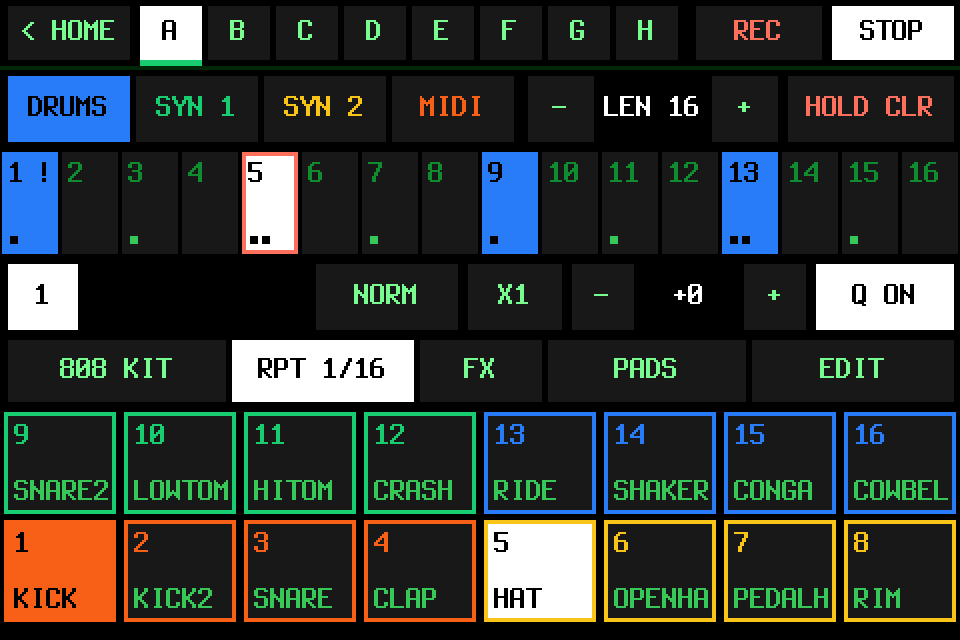
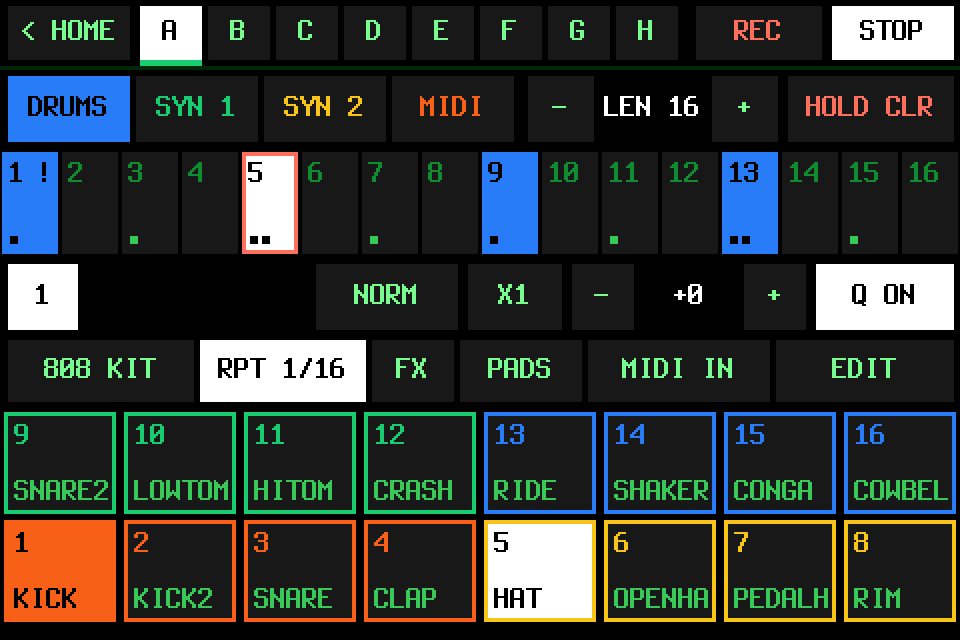
XO-4: MIDI IN on / off; the Ethernet link setting as a number
XO-4's DRUMS row gets MIDI IN, off at first: the MIDI routes' notes (a synth's,
the Pocket's) no longer play XO-4's pads unless it's on (the SMP column).
Clock and start/stop still pass. Kept in the settings (xo4_midi_in) and sent
to the MIDI process. Asked for by the user, through the Pocket session.

The Ethernet drop-in: NetworkManager reads its connection defaults as
numbers, so ipv4.link-local=3 (enabled), not the word (the Pocket session's
catch).

Credits: XOXO Audio Labs. License: GPL-3.0.
Tested: on the PC, the test suite (test_midi.py with a new MIDI IN test,
test_desk.py through pytest); the DRUMS screenshot redrawn with the button; on
the Studio, the app starts and runs with it.
Not tested: MIDI IN by hand on the Studio's screen; a synth's notes kept off
the pads on hardware; the link-local address on a real cable.

diff --git a/fm1-bt-bridge/deskxo4.py b/fm1-bt-bridge/deskxo4.py
@@ -12,7 +12,9 @@ the decks are: the step grid and the keys need the height the tab bar takes.
               DRUMS: the hit last put on (the pad picked, on that step): its LEVEL (NORM, GHOST, SOFT, HARD), its
               ratchet (X1-X4), the step's NUDGE - / +; QUANT (live REC on the grid, or where it was played)
   below       DRUMS: KIT (the kits: load, save, new), RPT (note repeat), FX (the pads' punch-in FX), PADS (the 16 pads big,
-              4x4 as on an MPC, full screen: KIT, RPT, FX, REC, EDIT above them), EDIT, and the 16 pads:
+              4x4 as on an MPC, full screen: KIT, RPT, FX, REC, EDIT above them), MIDI IN (off at first: notes from
+              the MIDI routes, a synth's or the Pocket's, don't play the pads; on, the routes' SMP column does), EDIT,
+              and the 16 pads:
               played (they sound while held, playing or not; with REC on, recorded) and picked for the steps; EDIT on,
               a tap opens the pad's page (its sample, level, pan, tune, mode, choke; sampling, trimming). These
               are the pads' own pages (deskpads.py), back to XO-4 when closed. The rest: OCT - / +, KEY and SCALE (the note keys
@@ -209,12 +211,14 @@ class DeskXO4:
         kit = a.kit()
         y = HDR_H + 136                         # KIT, RPT, FX, EDIT (where the synths have OCT, KEY, SCALE, SOUND)
         repeat = a.state.get("repeat")
-        self.button(img, d, (4, y, 112, y + 30), kit["name"][:12], self.open_kits, key="xo4-kits")
-        self.button(img, d, (116, y, 206, y + 30), "RPT" if repeat is None else "RPT " + pads.DIVS[repeat],
+        self.button(img, d, (4, y, 96, y + 30), kit["name"][:10], self.open_kits, key="xo4-kits")
+        self.button(img, d, (100, y, 182, y + 30), "RPT" if repeat is None else "RPT " + pads.DIVS[repeat],
                     self.toggle_repeat, on=repeat is not None, key="xo4-rpt")
-        self.button(img, d, (210, y, 270, y + 30), "FX", self.open_fx, on=self.fx_on is not None, key="xo4-fx")
-        self.button(img, d, (274, y, 372, y + 30), "PADS", self.open_mpc, key="xo4-mpc")   # the big pads
-        self.button(img, d, (376, y, W - 4, y + 30), "EDIT", self.toggle_pad_mode, on=self.pad_mode, key="xo4-edit")
+        self.button(img, d, (186, y, 226, y + 30), "FX", self.open_fx, on=self.fx_on is not None, key="xo4-fx")
+        self.button(img, d, (230, y, 290, y + 30), "PADS", self.open_mpc, key="xo4-mpc")   # the big pads
+        self.button(img, d, (294, y, 384, y + 30), "MIDI IN", self.xo4_toggle_midi_in,
+                    on=bool(a.state.get("xo4_midi_in")), key="xo4-midi-in")
+        self.button(img, d, (388, y, W - 4, y + 30), "EDIT", self.toggle_pad_mode, on=self.pad_mode, key="xo4-edit")
         top, pw = y + 36, W // 8
         sounding = set(a.pads.sounding) if a.pads else set()
         for i in range(16):
@@ -358,6 +362,15 @@ class DeskXO4:
         song = self.xo4_song()
         song["quant"] = not song["quant"]
         self.xo4_save(song)
+
+    def xo4_toggle_midi_in(self):
+        """MIDI IN: the routes' notes play XO-4's pads (on) or not (off: a synth on the routes plays only itself)"""
+        a = self.app
+        a.state["xo4_midi_in"] = not a.state.get("xo4_midi_in")
+        a.save_settings()
+        if a.midi and hasattr(a.midi, "set_xo4_in"):
+            a.midi.set_xo4_in(a.state["xo4_midi_in"])
+        self.xo4_rev += 1
 
     def xo4_toggle_rec(self):
         self.xo4_rec = not self.xo4_rec

diff --git a/fm1-bt-bridge/blemidi.py b/fm1-bt-bridge/blemidi.py
@@ -1080,6 +1080,7 @@ class MidiBridge:
         self.enabled = enabled
         self.xo4, self.xo4_notes = xo4, xo4_notes   # XO-4 (the Studio): the grid to it, its MIDI track's notes from it
         self.pads, self.pads_lock = pads, threading.Lock()    # the sampler's pipe (the Studio), notes for its pads
+        self.xo4_in = False                 # XO-4's MIDI IN (its DRUMS row): off, the routes' notes don't play its pads
         self.net = self.mcu = None            # network MIDI (the desk box): music, and a Mackie Control surface
         if net:
             import netmidi
@@ -1142,7 +1143,9 @@ class MidiBridge:
             if self.net:
                 self.net.send(messages)
         elif dest == "SMP":
-            if self.pads is not None:
+            if not self.xo4_in:               # MIDI IN off: only real-time (clock, start, stop) reaches the pads
+                messages = [m for m in messages if m and m[0] >= 0xF8]
+            if self.pads is not None and messages:
                 with self.pads_lock:
                     try:
                         self.pads.send(("midi", [list(m) for m in messages]))
@@ -1533,6 +1536,8 @@ def run_child(conn, enabled, net=False, pads=None, xo4=None, xo4_notes=None):
                 bridge.transport(command[1])
             elif command[0] == "routes":           # ("routes", {route key: settings})
                 bridge.set_routes(command[1])
+            elif command[0] == "xo4_in":           # ("xo4_in", on): XO-4's MIDI IN
+                bridge.xo4_in = bool(command[1])
             elif command[0] == "metronome":        # ("metronome", on, speaker, level, rate)
                 wanted[:] = command[1:5]
             elif command[0] == "mcu" and bridge.mcu:   # ("mcu", [messages]): the control surface, to the DAW
@@ -1713,6 +1718,9 @@ class MidiProcess:
 
     def set_routes(self, routes):
         self.conn.send(("routes", routes))
+
+    def set_xo4_in(self, on):
+        self.conn.send(("xo4_in", bool(on)))
 
     def set_metronome(self, on, target, level, rate):
         self.conn.send(("metronome", on, target, level, rate))

diff --git a/tests/test_midi.py b/tests/test_midi.py
@@ -45,6 +45,7 @@ class FakePads:
 
 def make_bridge():
     bridge = blemidi.MidiBridge(pads=FakePads())
+    bridge.xo4_in = True                       # XO-4's MIDI IN on: the routes' SMP column reaches the pads
     bridge.controllers = FakeControllers()
     bridge.to_ble_sent = []
     bridge.to_ble = bridge.to_ble_sent.append
@@ -106,6 +107,7 @@ def test_several_bluetooth_devices():
     """Phones connect to the box and the box connects to keyboards, several at once: each sender keeps its own
     running status, and what goes out to BT reaches every one of them."""
     bridge = blemidi.MidiBridge(pads=FakePads())
+    bridge.xo4_in = True
     notified, written = [], []
     connected = [("/hci0/dev_AA", "iPad", "AA:00:00:00:00:01"), ("/hci0/dev_BB", "microKEY", "BB:00:00:00:00:02")]
     bridge.bluez = {"idle_add": lambda f: f(), "connected_peers": lambda: connected,
@@ -417,6 +419,20 @@ def test_usb_keys_play_the_pads():
     bridge.from_controllers(b"\x90\x41\x40")
     assert bridge.pads.sent[-1] == b"\x90\x4d\x40"
     assert {k for k, r in blemidi.default_routes().items() if not r["on"]} == set(blemidi.OFF_AT_FIRST)
+
+
+def test_xo4_midi_in_off():
+    """XO-4's MIDI IN off (as it starts): a synth's notes on the routes don't play the pads; real-time still does"""
+    assert blemidi.MidiBridge(pads=FakePads()).xo4_in is False
+    bridge = make_bridge()
+    bridge.xo4_in = False
+    bridge.from_controllers(b"\x90\x3c\x40")
+    bridge.deliver("USB>SMP", [b"\xf8", b"\x80\x3c\x00"])
+    assert bridge.pads.sent == [b"\xf8"]
+    bridge.xo4_in = True
+    bridge.from_controllers(b"\x90\x3c\x40")
+    assert bridge.pads.sent == [b"\xf8", b"\x90\x3c\x40"]
+
 
 if __name__ == "__main__":
     tests = [(n, f) for n, f in globals().items() if n.startswith("test_")]

diff --git a/fm1-bt-bridge/bridge.py b/fm1-bt-bridge/bridge.py
@@ -49,6 +49,7 @@ DEFAULTS = {
     "audio_rate": 48000,    # PipeWire's rate (Hz), 48000 or 44100: the USB sources are opened at this rate
     "clock_mode": "follow", # MIDI clock: "follow" (pass on and show incoming clock) or "box" (send our own)
     "bpm": 120,             # the box's tempo when it's the clock master
+    "xo4_midi_in": False,   # XO-4's MIDI IN: the routes' notes (the SMP column) play its pads; off, they don't
     "routes": None,         # the MIDI matrix: {"BT>SMP": {...}, ...}; None = every route as it starts
     "route_presets": None,  # {"1": {"routes": ..., "saved": time}, ...}: matrix setups to recall
     "metronome": False,     # a click on the speaker in time with the clock
@@ -1968,6 +1969,7 @@ def main():
         midi.set_ble_saved(state["ble_keys"])
         midi.set_clock(state["clock_mode"], state["bpm"])
         midi.set_routes(state["routes"])
+        midi.set_xo4_in(state["xo4_midi_in"])
     if boot:
         deskboot.show(display, boot, 2)
     state["touch_cal"] = list(state["touch_cal"])   # its own list: calibrating changes it in place

diff --git a/tests/test_desk.py b/tests/test_desk.py
@@ -742,6 +742,7 @@ def test_each_usb_midi_device_its_own_route():
         def send(self, msg):
             self.sent.extend(msg[1])
     b = blemidi.MidiBridge(net=True, pads=Pads())                              # the MIDI process, the Studio's
+    b.xo4_in = True                                                            # (XO-4's MIDI IN on)
     to_dev = []
     b.controllers.send_to = lambda name, m: to_dev.append((name, list(m)))
     b.controllers.names = lambda: ["Clipper", "EP-136"]

diff --git a/README.md b/README.md
@@ -70,7 +70,7 @@ The Studio's own groovebox, being built (`fm1-bt-bridge/xo4.py`, `xo4synth.py`, 
   - **DRUMS:**
     - **The pads:** played (they sound while held, playing or not) and picked for the steps: the steps put the picked pad on or off.
     - **The hit just put on:** its LEVEL, ratchet and the step's NUDGE − / +. QUANT: live REC on the grid, or where it was played.
-    - **KIT:** the kits (load, save, new). **RPT:** note repeat. **FX:** the sixteen punch-in FX (on the pads' sound). **PADS:** the 16 pads big, 4×4 as on an MPC, full screen, with KIT, RPT, FX, REC and EDIT above them. **EDIT:** a tap opens the pad's page (its sample, level, pan, tune, mode, choke; sampling into it, trimming it).
+    - **KIT:** the kits (load, save, new). **RPT:** note repeat. **FX:** the sixteen punch-in FX (on the pads' sound). **PADS:** the 16 pads big, 4×4 as on an MPC, full screen, with KIT, RPT, FX, REC and EDIT above them. **MIDI IN:** off at first, so a synth or the Pocket on the MIDI routes plays only itself; on, the routes' SMP column plays the pads (and live REC records them). Clock and start/stop still reach the pads either way. **EDIT:** a tap opens the pad's page (its sample, level, pan, tune, mode, choke; sampling into it, trimming it).
   - **SYN 1, SYN 2, MIDI:**
     - **The note keys:** OCT, KEY, SCALE, and 14 keys, which offer only the scale's notes.
     - **FX:** XO-4's own sixteen punch-in FX on the two synths' sound (hold one, or LATCH it), apart from the pads' FX.
@@ -129,6 +129,7 @@ Drawn on a PC by the Studio's own drawing code with a made-up studio (`python to
 - HOME's tempo - / + beside the BPM work well on the Studio's screen (the user's report)
 - HOME listing every source with its mixer level looks right on the Studio's screen (the user's report; the decks' row not yet seen with the decks playing there)
 - the FX (the pads' punch-in FX, XO-4's synth FX, the decks' ECHO, REVERB, FLANGER, BRAKE) sound good on the Studio (the user's report, 2026-10-28)
+- XO-4's MIDI IN: starts off on the Studio, the app runs with it (its effect on notes tested on the PC only)
 - the Pocket link's Studio side, with a stand-in Pocket on a PC over Wi-Fi: it joins the Studio's network MIDI as "FM-1 Companion Pocket" and gets the Studio's clock (2026-10-29); the Studio's Ethernet setting is loaded by NetworkManager with no error
 - the DJ decks played by touch alone (no controller), music from a USB drive, out of a JBL Go 3 over Bluetooth (the user's report, 2026-10-28, after the fix for their volume starting at 0)
 
